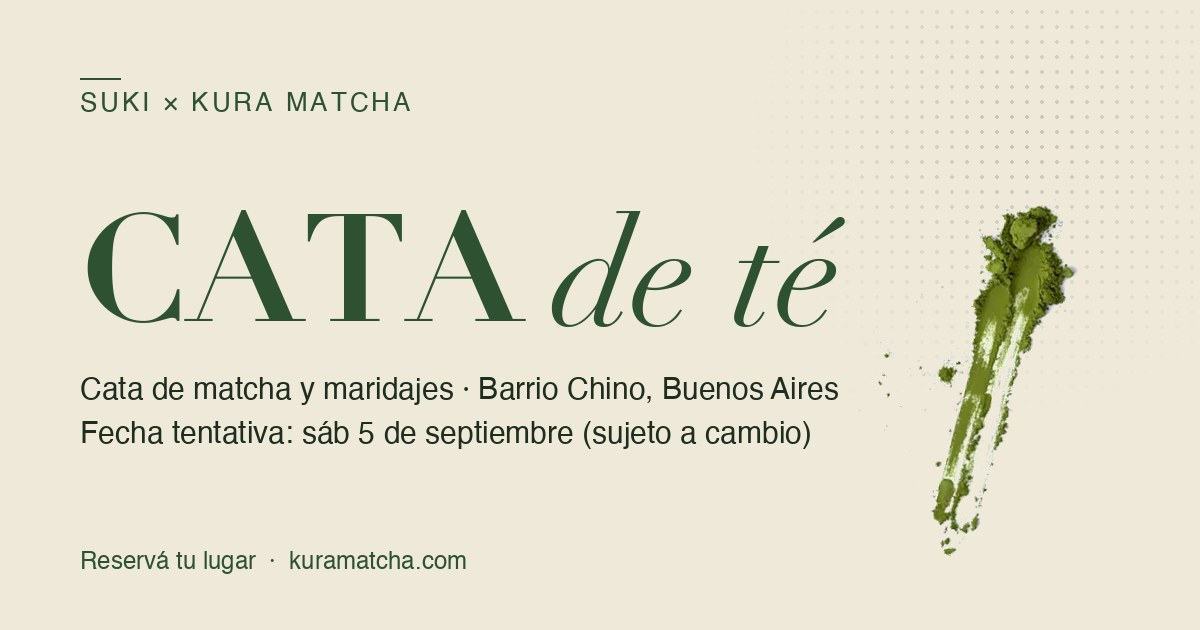
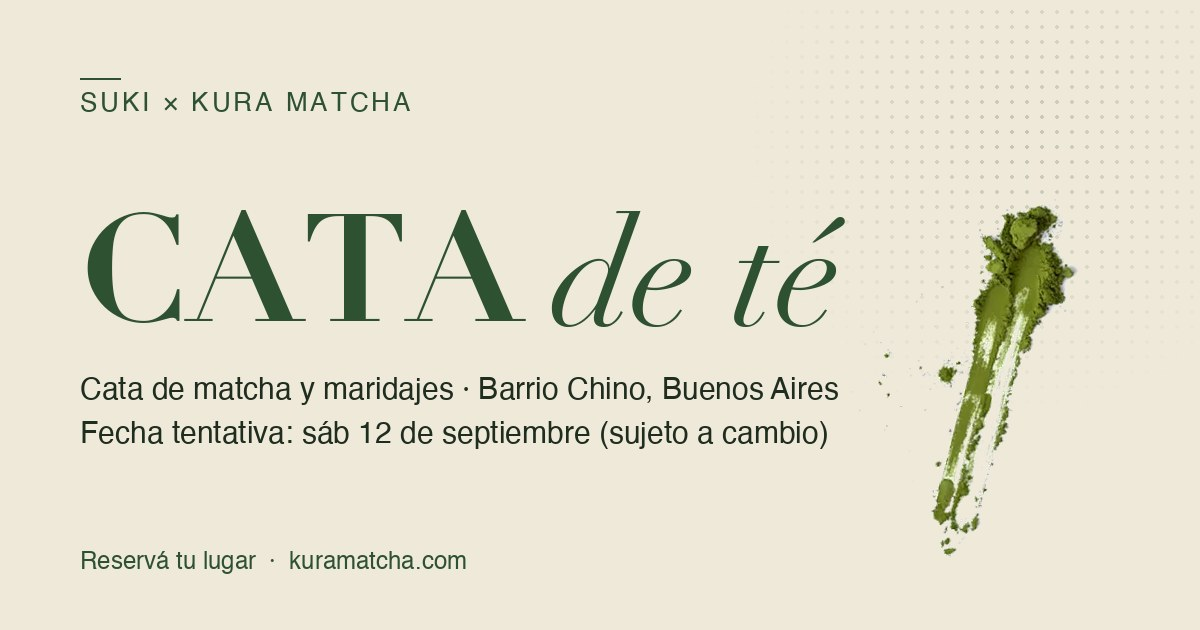
Cata: reestructurar en 3 partes, fecha 12/9, centrar detalles
- Fecha al sábado 12 de septiembre (única, sin opción de elegir); se
  quita el selector de fecha y se envía como campo oculto.
- Parte 1: hero + lista 01-04. Parte 2: detalles + info, centrados.
  Parte 3: formulario → al enviar aparecen los datos de transferencia
  (monto en tamaño normal) y debajo el compartir.
- Título más chico (entraba cortado en desktop).
- Labels "Antes de venir"/"Política"/datos ahora en verde legible.
- Imagen de preview regenerada con la fecha nueva.

Changed region(s): [[0.2775, 0.6635, 0.7092, 0.7238]]

diff --git a/cata.html b/cata.html
@@ -4,14 +4,14 @@
   <meta charset="utf-8" />
   <meta name="viewport" content="width=device-width, initial-scale=1" />
   <title>Ceremonia del té · SUKI × Kura Matcha</title>
-  <meta name="description" content="Cata de matcha y maridajes tradicionales en Barrio Chino, Buenos Aires. Fecha tentativa: sábado 5 de septiembre (sujeto a cambio), 10:30 am. 20 cupos por turno. Reservá tu lugar." />
+  <meta name="description" content="Cata de matcha y maridajes tradicionales en Barrio Chino, Buenos Aires. Fecha tentativa: sábado 12 de septiembre (sujeto a cambio), 10:30 am. 20 cupos por turno. Reservá tu lugar." />
   <meta name="robots" content="index, follow" />
   <link rel="canonical" href="https://www.arlemgroup.com/cata.html" />
   <meta property="og:type" content="website" />
   <meta property="og:site_name" content="Kura Matcha" />
   <meta property="og:url" content="https://www.arlemgroup.com/cata.html" />
   <meta property="og:title" content="Cata de té · SUKI × Kura" />
-  <meta property="og:description" content="Cata de matcha y maridajes tradicionales en Barrio Chino, Buenos Aires. Fecha tentativa: sáb 5 de septiembre (sujeto a cambio), 10:30 am · 20 cupos por turno." />
+  <meta property="og:description" content="Cata de matcha y maridajes tradicionales en Barrio Chino, Buenos Aires. Fecha tentativa: sáb 12 de septiembre (sujeto a cambio), 10:30 am · 20 cupos por turno." />
   <meta property="og:locale" content="es_AR" />
   <meta property="og:image" content="https://www.arlemgroup.com/public/cata-og.jpg" />
   <meta property="og:image:secure_url" content="https://www.arlemgroup.com/public/cata-og.jpg" />
@@ -21,7 +21,7 @@
   <meta property="og:image:alt" content="Cata de té · SUKI × Kura Matcha" />
   <meta name="twitter:card" content="summary_large_image" />
   <meta name="twitter:title" content="Cata de té · SUKI × Kura" />
-  <meta name="twitter:description" content="Cata de matcha y maridajes tradicionales en Barrio Chino, Buenos Aires. Fecha tentativa: sáb 5 de septiembre (sujeto a cambio), 10:30 am." />
+  <meta name="twitter:description" content="Cata de matcha y maridajes tradicionales en Barrio Chino, Buenos Aires. Fecha tentativa: sáb 12 de septiembre (sujeto a cambio), 10:30 am." />
   <meta name="twitter:image" content="https://www.arlemgroup.com/public/cata-og.jpg" />
   <link rel="icon" type="image/x-icon" href="favicon.ico" />
   <link rel="icon" type="image/png" sizes="32x32" href="public/kura-logo.png" />
@@ -140,8 +140,8 @@
     .hero__title {
       font-family: var(--serif);
       font-weight: 600;
-      font-size: clamp(2.9rem, 14.5vw, 5.5rem);
-      line-height: 0.99;
+      font-size: clamp(2.4rem, 11.5vw, 4rem);
+      line-height: 1;
       text-transform: uppercase;
       letter-spacing: 0.01em;
       position: relative; z-index: 2;
@@ -203,22 +203,23 @@
     .list__txt { font-family: var(--serif); font-weight: 500; font-size: clamp(1.12rem, 4.7vw, 1.3rem); line-height: 1.3; }
 
     /* ── Detalles ── */
+    /* ── Parte 2 · Detalles (centrado) ── */
+    .detalles { text-align: center; margin-top: clamp(2.5rem, 8vw, 4rem); }
     .facts {
-      display: grid;
-      grid-template-columns: 1fr 1fr;
-      gap: 0.9rem 1rem;
-      margin-bottom: 0.75rem;
+      display: flex; flex-direction: column; align-items: center;
+      gap: 1rem;
+      margin-bottom: 1rem;
     }
     .fact__k {
-      font-family: var(--mono); font-size: 0.56rem; letter-spacing: 0.18em;
-      text-transform: uppercase; color: var(--bosque-soft);
-      display: block; margin-bottom: 0.35rem;
+      font-family: var(--mono); font-size: 0.58rem; letter-spacing: 0.18em;
+      text-transform: uppercase; color: var(--bosque);
+      display: block; margin-bottom: 0.3rem;
     }
-    .fact__v { font-family: var(--serif); font-weight: 500; font-size: clamp(1.12rem, 4.5vw, 1.28rem); line-height: 1.25; }
+    .fact__v { font-family: var(--serif); font-weight: 500; font-size: clamp(1.18rem, 4.6vw, 1.35rem); line-height: 1.25; color: var(--bosque); }
     .facts__note {
       font-family: var(--mono); font-size: 0.56rem; letter-spacing: 0.1em;
       text-transform: uppercase; color: var(--bosque-soft);
-      margin-bottom: clamp(2.5rem, 8vw, 3.5rem);
+      margin-bottom: clamp(2rem, 7vw, 3rem);
     }
 
     /* ── Formulario ── */
@@ -305,9 +306,12 @@
 
     /* Info / política */
     .info { margin-top: clamp(2rem, 6vw, 2.75rem); }
-    .info__item { border-top: 1px solid var(--bosque-soft); padding-top: 1rem; margin-bottom: 1.15rem; }
-    .info__k { font-family: var(--mono); font-size: 0.56rem; letter-spacing: 0.16em; text-transform: uppercase; color: var(--polvo); display: block; margin-bottom: 0.45rem; }
-    .info__t { font-size: 0.9rem; line-height: 1.6; color: var(--tinta); opacity: 0.85; }
+    .info__item { border-top: 1px solid var(--bosque-soft); padding-top: 1.1rem; margin-bottom: 1.35rem; }
+    .info__k { font-family: var(--mono); font-size: 0.58rem; letter-spacing: 0.16em; text-transform: uppercase; color: var(--bosque); font-weight: 500; display: block; margin-bottom: 0.5rem; }
+    .info__t { font-size: 0.9rem; line-height: 1.6; color: var(--tinta); opacity: 0.9; max-width: 44ch; margin: 0 auto; }
+    /* Pago dentro del éxito del formulario */
+    .ok .pay { text-align: left; margin-top: 1.75rem; }
+    .ok .pay__hint, .ok .pay__title, .ok .pay__price { display: none; }
 
     /* Fecha: pills */
     .pills { display: flex; flex-direction: column; gap: 0.6rem; }
@@ -541,31 +545,43 @@
     <div class="list__item"><span class="list__no">/ 04</span><span class="list__txt">Una mesa compartida para conocer gente</span></div>
   </section>
 
-  <!-- Detalles -->
-  <section>
+  </div><!-- /fold -->
+
+  <!-- ═══ Parte 2 · Detalles + info (centrado) ═══ -->
+  <section class="detalles">
     <div class="facts">
-      <div><span class="fact__k">Fecha tentativa</span><span class="fact__v">Sáb 5 de septiembre</span></div>
+      <div><span class="fact__k">Fecha tentativa</span><span class="fact__v">Sáb 12 de septiembre</span></div>
       <div><span class="fact__k">Hora</span><span class="fact__v">10:30 am</span></div>
       <div><span class="fact__k">Lugar</span><span class="fact__v">Barrio Chino, Buenos Aires</span></div>
       <div><span class="fact__k">Cupos</span><span class="fact__v">20 por turno</span></div>
       <div><span class="fact__k">Valor</span><span class="fact__v">$60.000 por persona</span></div>
     </div>
     <p class="facts__note">Fecha tentativa, sujeta a cambio — confirmamos por WhatsApp</p>
+
+    <div class="info">
+      <div class="info__item">
+        <span class="info__k">Antes de venir</span>
+        <p class="info__t">Para cuidar los aromas de la cata, te pedimos venir sin perfumes ni fragancias fuertes ese día.</p>
+      </div>
+      <div class="info__item">
+        <span class="info__k">Política de cancelación</span>
+        <p class="info__t">El pago confirma tu lugar. Si no podés asistir, avisanos hasta 48 hs antes y te reprogramamos para la próxima fecha o te devolvemos el importe. Con menos de 48 hs de aviso, podés transferir tu lugar a otra persona.</p>
+      </div>
+    </div>
   </section>
 
-  </div><!-- /fold -->
-
-  <!-- Formulario -->
+  <!-- ═══ Parte 3 · Formulario → (al enviar) datos de pago ═══ -->
   <section class="form-box" id="reservar">
     <div class="halftone" aria-hidden="true"></div>
 
     <form id="rsvp" action="https://script.google.com/macros/s/AKfycbwcI92YqAVO7dieC_toGGTfDURq2eKajUzrkdrk52k5OX6Znvn7tOMa6DIbfdwo2P64Yw/exec" method="POST">
       <h2 class="form__title rv">Reservá tu lugar</h2>
-      <p class="form__hint rv">Dejanos tus datos y te confirmamos ni bien tengamos la fecha decidida.</p>
+      <p class="form__hint rv">Completá tus datos y te mostramos cómo confirmar tu lugar.</p>
 
       <!-- Trampa anti-spam: invisible para personas, tentadora para bots -->
       <input type="text" name="_honey" style="display:none" tabindex="-1" autocomplete="off" />
       <input type="hidden" name="origen" value="cata.html" />
+      <input type="hidden" name="fecha" value="Sábado 12 de septiembre · 10:30 (tentativa)" />
 
       <div class="field rv">
         <label for="f-nombre">Nombre</label>
@@ -575,14 +591,6 @@
       <div class="field rv" data-d="1">
         <label for="f-wa">WhatsApp</label>
         <input id="f-wa" type="tel" name="whatsapp" placeholder="11 1234 5678" required autocomplete="tel" inputmode="tel" />
-      </div>
-
-      <div class="field rv" data-d="2">
-        <label>¿Qué fecha te queda mejor?</label>
-        <div class="pills">
-          <label class="pill"><input type="radio" name="fecha" value="Sábado 5 de septiembre · 10:30 (tentativa)" required /><span>Sáb 5 de septiembre · 10:30 (tentativa)</span></label>
-          <label class="pill"><input type="radio" name="fecha" value="A confirmar / cualquiera" /><span>A confirmar / me es indistinto</span></label>
-        </div>
       </div>
 
       <div class="field rv" data-d="2">
@@ -607,36 +615,18 @@
       <p class="form__fine rv" data-d="2">20 cupos por turno · Al enviar aceptás los <a href="terminos.html">términos</a></p>
     </form>
 
-    <!-- Éxito -->
+    <!-- Éxito → datos para transferir -->
     <div class="ok" id="ok" role="status">
       <div class="ok__mark" aria-hidden="true">✦</div>
-      <h2>¡Reserva enviada!</h2>
-      <p>Te escribimos por WhatsApp para confirmar tu lugar.<br />Nos vemos en la cata.</p>
-    </div>
-  </section>
-
-  <!-- Precio y pago -->
-  <section class="pay-wrap">
-    <div class="pay">
-      <p class="pay__title">Valor de la cata</p>
-      <p class="pay__price">$60.000 <small>por persona</small></p>
-      <p class="pay__hint">Reservás tu lugar transfiriendo el valor. Después mandanos el comprobante y te confirmamos apenas quede definida la fecha.</p>
-      <div class="pay__rows">
-        <div class="pay__row"><span class="pay__k">Alias</span><span class="pay__v">somos.suki</span><button type="button" class="pay__copy" data-copy="somos.suki">Copiar</button></div>
-        <div class="pay__row"><span class="pay__k">CVU</span><span class="pay__v">0000003100040671252489</span><button type="button" class="pay__copy" data-copy="0000003100040671252489">Copiar</button></div>
-        <div class="pay__row"><span class="pay__k">Titular</span><span class="pay__v">SUKI Barrio Chino</span></div>
-      </div>
-      <p class="pay__send">Enviá el comprobante por <a href="https://wa.me/5491156670631?text=Hola%21+Te+paso+el+comprobante+de+la+Cata+de+t%C3%A9." target="_blank" rel="noopener">WhatsApp</a> o a <a href="mailto:somos.suki@gmail.com?subject=Comprobante%20Cata%20de%20t%C3%A9">somos.suki@gmail.com</a></p>
-    </div>
-
-    <div class="info">
-      <div class="info__item">
-        <span class="info__k">Antes de venir</span>
-        <p class="info__t">Para cuidar los aromas de la cata, te pedimos venir sin perfumes ni fragancias fuertes ese día.</p>
-      </div>
-      <div class="info__item">
-        <span class="info__k">Política de cancelación</span>
-        <p class="info__t">El pago confirma tu lugar. Si no podés asistir, avisanos hasta 48 hs antes y te reprogramamos para la próxima fecha o te devolvemos el importe. Con menos de 48 hs de aviso, podés transferir tu lugar a otra persona.</p>
+      <h2>¡Lugar reservado!</h2>
+      <p>Para confirmarlo, transferí <strong>$60.000</strong> y mandanos el comprobante.</p>
+      <div class="pay">
+        <div class="pay__rows">
+          <div class="pay__row"><span class="pay__k">Alias</span><span class="pay__v">somos.suki</span><button type="button" class="pay__copy" data-copy="somos.suki">Copiar</button></div>
+          <div class="pay__row"><span class="pay__k">CVU</span><span class="pay__v">0000003100040671252489</span><button type="button" class="pay__copy" data-copy="0000003100040671252489">Copiar</button></div>
+          <div class="pay__row"><span class="pay__k">Titular</span><span class="pay__v">SUKI Barrio Chino</span></div>
+        </div>
+        <p class="pay__send">Enviá el comprobante por <a href="https://wa.me/5491156670631?text=Hola%21+Te+paso+el+comprobante+de+la+Cata+de+t%C3%A9." target="_blank" rel="noopener">WhatsApp</a> o a <a href="mailto:somos.suki@gmail.com?subject=Comprobante%20Cata%20de%20t%C3%A9">somos.suki@gmail.com</a></p>
       </div>
     </div>
   </section>
@@ -693,7 +683,7 @@
 (function () {
   var SHARE_URL  = 'https://kuramatcha.com/cata.html';
   var SHARE_TITLE = 'Cata de té · SUKI × Kura';
-  var SHARE_TEXT = 'Te invito a la Cata de té 🍵 SUKI × Kura Matcha. Cata de matcha y maridajes en Barrio Chino. Fecha tentativa: sáb 5 de septiembre 10:30 (sujeto a cambio). Reservá tu lugar:';
+  var SHARE_TEXT = 'Te invito a la Cata de té 🍵 SUKI × Kura Matcha. Cata de matcha y maridajes en Barrio Chino. Fecha tentativa: sáb 12 de septiembre 10:30 (sujeto a cambio). Reservá tu lugar:';
 
   var pop   = document.getElementById('share-pop');
   var openBtns = document.querySelectorAll('#share-open, #share-open-top');
@@ -857,7 +847,7 @@
     var body = new URLSearchParams({
       nombre: document.getElementById('f-nombre').value,
       whatsapp: document.getElementById('f-wa').value,
-      fecha: (form.querySelector('input[name="fecha"]:checked') || {}).value || '',
+      fecha: (form.querySelector('input[name="fecha"]') || {}).value || '',
       interes: interes,
       origen: 'cata.html',
       _honey: form.querySelector('input[name="_honey"]').value

diff --git a/index.html b/index.html
@@ -345,7 +345,7 @@
     <span class="cata-promo__label">SUKI × Kura</span>
     <div class="cata-promo__main">
       <span class="cata-promo__title">Ceremonia del té</span>
-      <span class="cata-promo__sub">Cata de matcha y maridajes · Fecha tentativa: sáb 5 de septiembre · Barrio Chino, Buenos Aires</span>
+      <span class="cata-promo__sub">Cata de matcha y maridajes · Fecha tentativa: sáb 12 de septiembre · Barrio Chino, Buenos Aires</span>
     </div>
     <span class="cata-promo__cta">Reservar lugar <span class="cata-promo__arrow">→</span></span>
   </div>
@@ -452,7 +452,7 @@
     <button class="cata-pop__close" id="cata-pop-close" aria-label="Cerrar">✕</button>
     <span class="cata-pop__label">SUKI × Kura Matcha</span>
     <h3 class="cata-pop__title" id="cata-pop-title">Cata <em>de té</em></h3>
-    <p class="cata-pop__sub">Cata de matcha y maridajes tradicionales en Barrio Chino, Buenos Aires. Fecha tentativa: sáb 5 de septiembre (sujeto a cambio), 10:30 am · 20 cupos por turno.</p>
+    <p class="cata-pop__sub">Cata de matcha y maridajes tradicionales en Barrio Chino, Buenos Aires. Fecha tentativa: sáb 12 de septiembre (sujeto a cambio), 10:30 am · 20 cupos por turno.</p>
     <a class="cata-pop__cta" href="cata.html">Reservar mi lugar <span aria-hidden="true">→</span></a>
   </div>
 </div>
